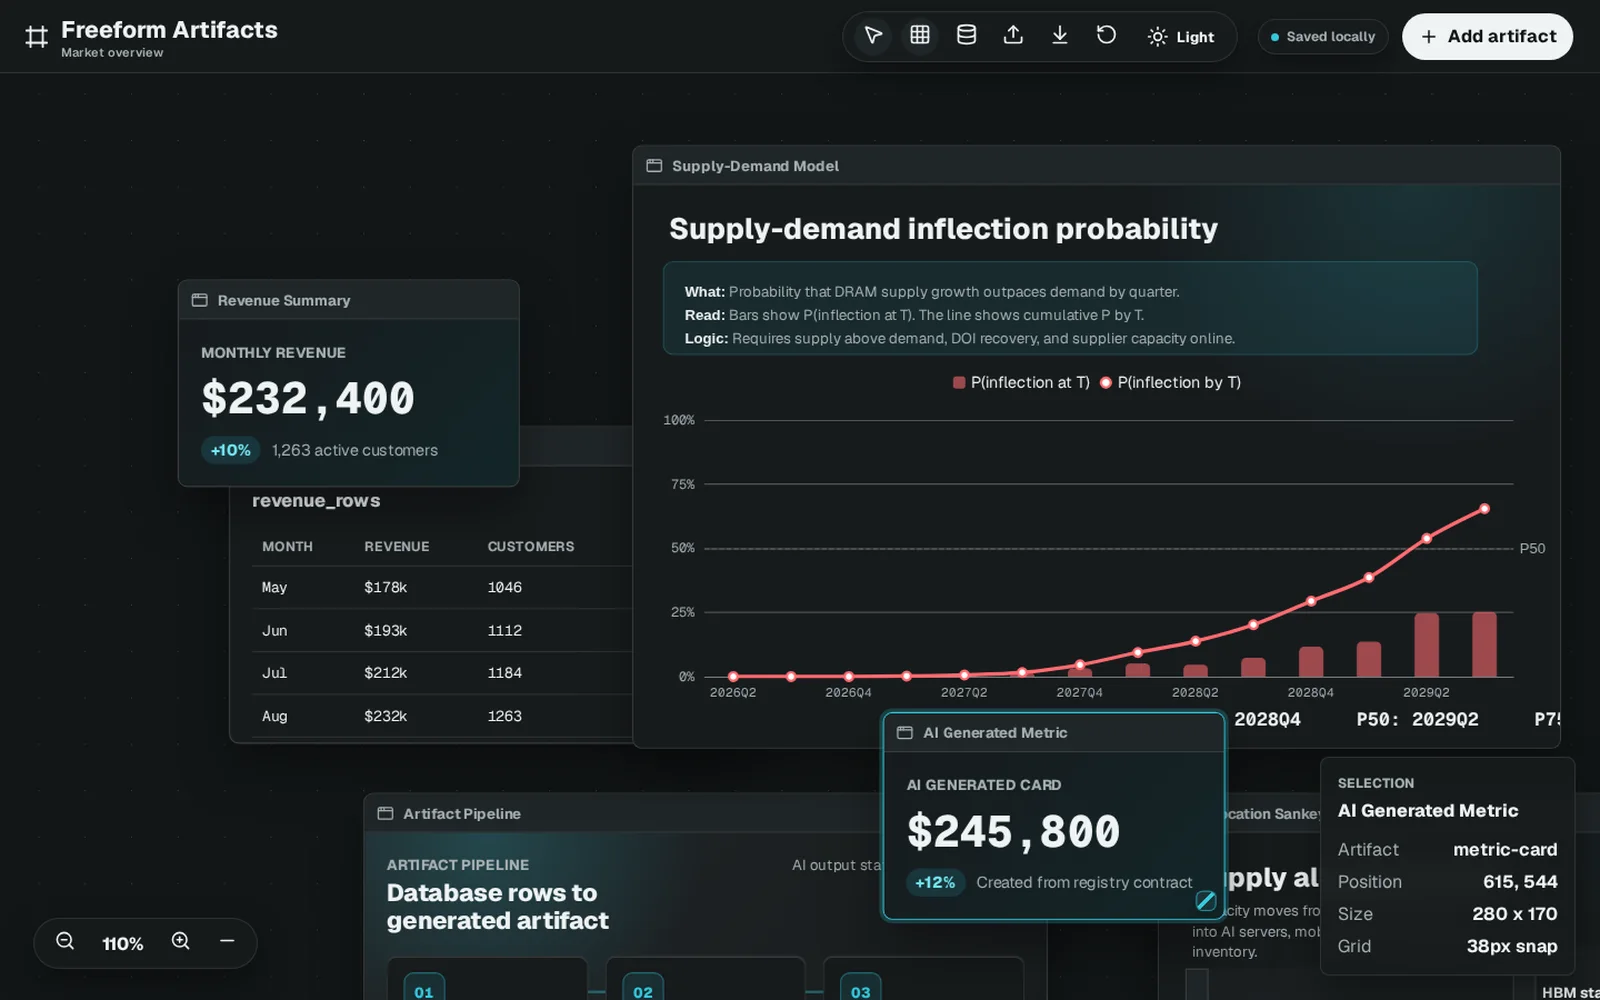
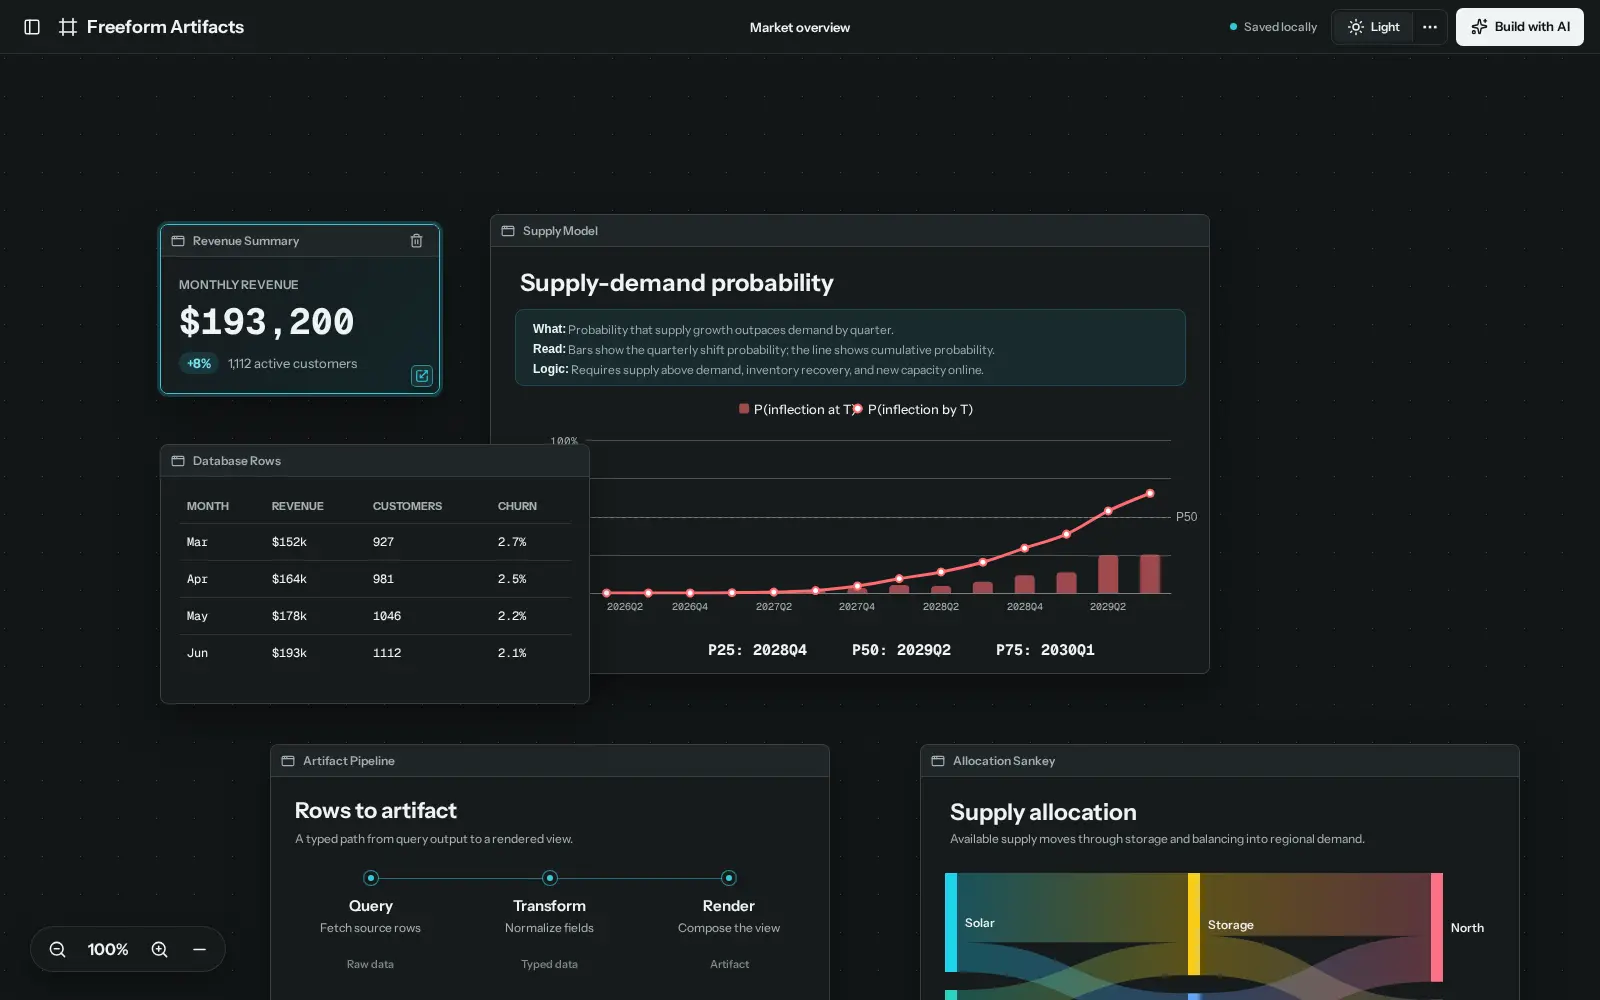
content: refresh Freeform showcase

diff --git a/src/data/projects.ts b/src/data/projects.ts
@@ -19,13 +19,13 @@ export const projects: Project[] = [
     slug: "freeform-artifacts",
     name: "Freeform Artifacts",
     kind: "Interactive lab",
-    summary: "A browser canvas for arranging AI-generated, data-backed artifacts.",
+    summary: "A local-first spatial canvas for arranging and generating data-backed artifacts with AI.",
     detail:
-      "Drag, resize, pan, and zoom a working dashboard canvas. Every visitor starts from the same published template, then edits an isolated copy saved in their own browser.",
+      "Create multiple named canvases, then drag, resize, pan, zoom, and snap tables, metrics, flows, and managed charts into place. Build with AI can install a trusted artifact bundle directly into the selected view; every visitor's edits remain isolated and persist in their own browser without an account or backend.",
     year: "2026",
-    stack: ["React", "TypeScript", "ECharts", "IndexedDB"],
+    stack: ["React", "TypeScript", "Chart Kit / ECharts", "IndexedDB"],
     image: "/media/freeform-artifacts.webp",
-    imageAlt: "Freeform Artifacts canvas showing metric, probability, flow, Sankey, and table artifacts",
+    imageAlt: "Dark-mode Freeform Artifacts canvas showing metric, probability, pipeline, Sankey, and table artifacts",
     repoUrl: "https://github.com/siriusctrl/freeform-artifacts",
     demoUrl: "https://siriusctrl.github.io/freeform-artifacts/",
     featured: true,

diff --git a/tests/site.spec.ts b/tests/site.spec.ts
@@ -24,7 +24,10 @@ test("project and note routes render real content", async ({ page }) => {
   await page.getByRole("link", { name: "Freeform Artifacts", exact: true }).first().click();
   await expect(page).toHaveURL(/\/projects\/freeform-artifacts\/$/);
   await expect(page.getByRole("link", { name: /Open demo/ })).toBeVisible();
+  await expect(page.getByText(/Build with AI can install a trusted artifact bundle/)).toBeVisible();
+  await expect(page.getByText("Chart Kit / ECharts", { exact: true })).toBeVisible();
   await expect(page.getByText("IndexedDB", { exact: true })).toBeVisible();
+  await expect(page.getByAltText(/Dark-mode Freeform Artifacts canvas/)).toBeVisible();
 
   await page.goto("/notes/");
   await page.getByRole("link", { name: "Rebuilding a personal site around working software" }).click();
@@ -34,7 +37,7 @@ test("project and note routes render real content", async ({ page }) => {
 test("mobile layouts do not overflow the viewport", async ({ page, isMobile }) => {
   test.skip(!isMobile, "Mobile project only");
 
-  for (const route of ["/", "/projects/", "/projects/towerlab/", "/notes/rebuilding-the-site/"]) {
+  for (const route of ["/", "/projects/", "/projects/freeform-artifacts/", "/notes/rebuilding-the-site/"]) {
     await page.goto(route);
     await page.waitForLoadState("networkidle");
     const dimensions = await page.evaluate(() => ({